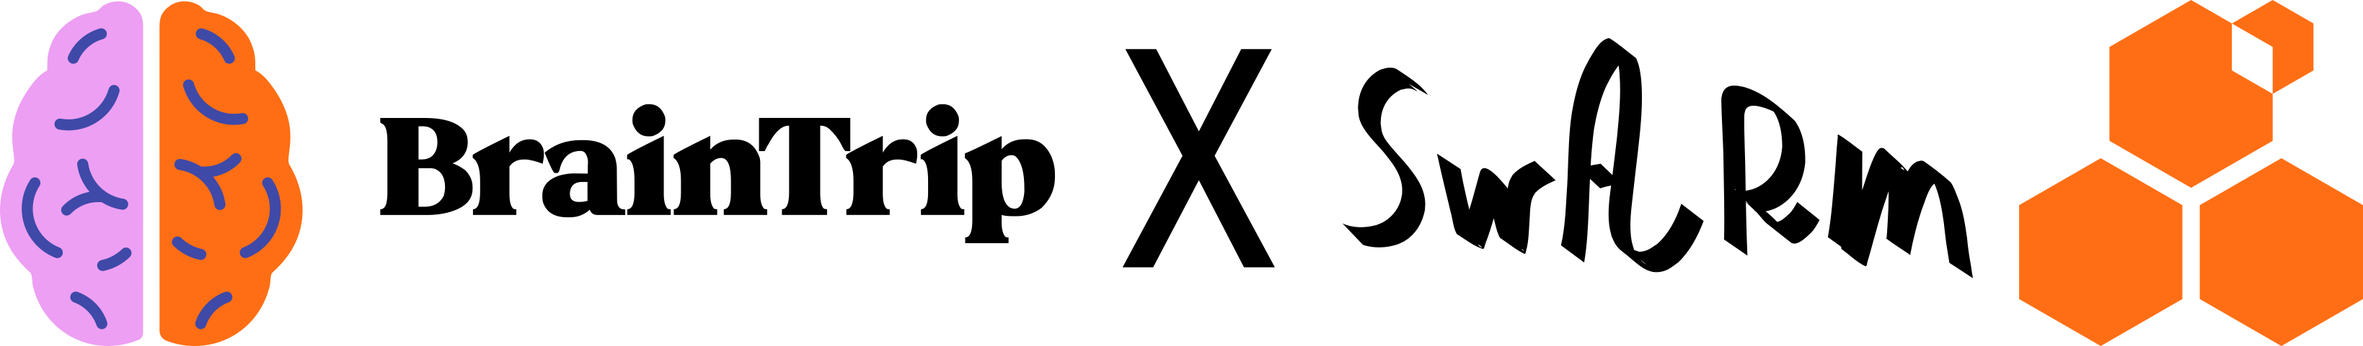
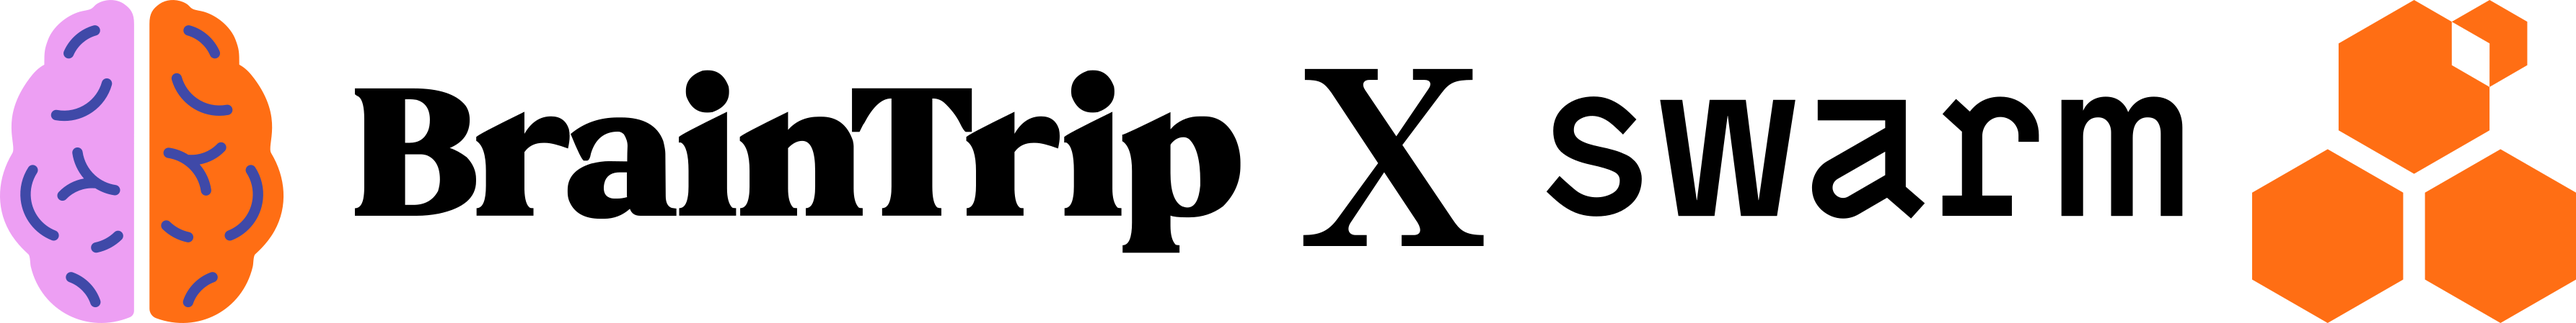
minor tweaks
- added buttons for horizontal chart scrolling
- updated btxswarm img
- updated about text

Changed region(s): [[0.0, 0.0, 0.996, 1.0], [0.249, 0.2183, 0.2801, 0.3118], [0.996, 0.5612, 1.0, 0.5924]]

diff --git a/index.html b/index.html
@@ -15,11 +15,10 @@
   <div class="w3-container w3-content w3-center" style="max-width:800px" id="about">
     <img src="./assets/braintripXswarm.png" alt="braintripXswarm" style="max-width: 600px; padding-top: 20px;">
     <h2 class="w3-wide">ABOUT</h2>
-    <p class="w3-justify">The BrainTrip project is attempting to use quantitative analysis of EEG data to predict cognitive decline and dementia in seniors. We've performed several hundred EEG recordings using a 24-channel EEG amplifier and saline sponge based EEG caps. Our EEG data is encoded in the BrainVision format. Each EEG recoring has 3 associated files: a binary raw EEG file (.egg), and two ascii files containing marker (.vmrk) and header (.vhdr) information about special events in the EEG (markers) and channel names and positions (header).
-
-        Further information on BrainVision format are available here
-        
-        To prepare your EEG data for upload, please convert your raw files to the BrainVison format for ease of use across different labs. Then follow the upload instructions.
+    
+    <p class="w3-justify">
+      The BrainTrip project is attempting to use quantitative analysis of EEG data to discover novel computational biomarkers for neurological and psychiatric conditions. We've performed several hundred EEG recordings using a 24-channel EEG amplifier and saline sponge based EEG caps. Our EEG data is encoded in the BrainVision format. Each EEG recoring has 3 associated files: a binary raw EEG file (.egg), and two ascii files containing marker (.vmrk) and header (.vhdr) information about special events in the EEG (markers) and channel names and positions (header). Further information on BrainVision format are available here To prepare your EEG data for upload, please convert your raw files to the BrainVison format for ease of use across different labs. Then follow the upload instructions.
+    </p>
   </div>
 
   <!-- Table and filters -->

diff --git a/chart_page.html b/chart_page.html
@@ -27,14 +27,16 @@
     <canvas id="myChart" style="height: 550px;"></canvas>  
   </div>
   <!-- button back and subject table div-->
-  <div class="w3-container w3-content w3-center" style="max-width:2000px; margin: 30px 0 20px 0;">
+  <div class="w3-container w3-content w3-center buttonDiv" style="max-width:2000px; margin: 30px 0 20px 0;">
+    <button onclick="scrollChart('left')" id="button"><img id="btnImg" src="./assets/leftArrow.png" alt=""></button>
     <button onclick="toMainPage()" id="button">Back to table view</button>
+    <button onclick="scrollChart('right')" id="button"><img id="btnImg" src="./assets/rightArrow.png" alt=""></button>
   </div> 
   <div class="w3-container w3-cpntent w3-center" style="font-size: 11px; color: lightslategray; margin-bottom: 10px;">
     For the purpose of better performance, the data on this plot has been downsampled from 500Hz to 100Hz.
   </div>
   <!-- Footer div (consists of two) -->
-  <div class="w3-content w3-center w3-cell-row w3-light-grey" style="max-width:2000px;">
+  <div class="w3-content w3-center w3-cell-row w3-light-grey" style="max-width:2000px; padding-top: 10px;">
     <div class="w3-container w3-cell">
       <p>Braintrip</p>
       <p><a href="http://www.braintrip.net/en">What is BrainTrip</a></p>
@@ -57,4 +59,5 @@
   <script src="https://cdnjs.cloudflare.com/ajax/libs/jszip/3.10.1/jszip.min.js"></script>
   <script src="./js/charts.js"></script>
   <script src="./js/main_page_functions.js"></script>
+  </body>
 </html>

diff --git a/js/charts.js b/js/charts.js
@@ -223,6 +223,18 @@ function scroller(keydown, chart) {
   chart.update();
 }
 
+function scrollChart(direction) {
+  
+  if ((direction == 'right') && (eegChart.options.scales.x.max < eegChart.data.labels.length-1)) {
+    eegChart.options.scales.x.min += 2.5;
+    eegChart.options.scales.x.max += 2.5;
+  } else if ((direction == 'left') && (eegChart.options.scales.x.min > 0)) {
+    eegChart.options.scales.x.min -= 2.5;
+    eegChart.options.scales.x.max -= 2.5;
+  }
+  eegChart.update();
+}
+
 
 readFile();
 

diff --git a/main.css b/main.css
@@ -94,9 +94,15 @@ tbody.scrollContent td, tbody.scrollContent tr td {
 }
 
 /* Buttons */
+.buttonDiv {
+  display: flex;
+  justify-content: space-between;
+}
+
 #btnImg{
-	max-width: 30px;
-	height: auto;
+  padding: 3px 0 3px 0;
+	max-width: 50px;
+	height: 28px;
 }
 
 button.refBtn {
